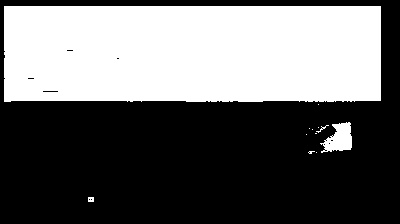
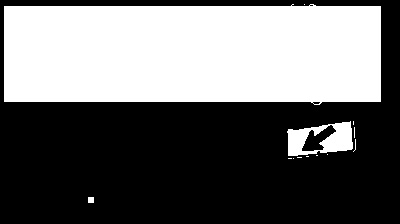
updated RGB definiton of stop sign and crosswalk sign

diff --git a/stopSign.py b/stopSign.py
@@ -110,14 +110,14 @@ for fn in os.listdir('CVInput'):
 			    if area > 700:
 			    	#make sure the contour is square enough
 			    	x,y,w,h = cv2.boundingRect(contours[i])
-			    	print float(w) / float(h)
-			    	print float(h) / float(w)
+			    	# print float(w) / float(h)
+			    	# print float(h) / float(w)
 			    	if float(w) / float(h) > 0.8 and float(w) / float(h) < 1.2 and float(h) / float(w) > 0.8 and float(h) / float(w) < 1.2:
 				    	if area > largestArea:
 					        largestArea = area
 					        bestContour = i
 
-			print "largestArea in pic "+fn+" is " + str(largestArea)
+			#print "largestArea in pic "+fn+" is " + str(largestArea)
 			if bestContour >= 0:
 				cv2.drawContours(resizedInputPhoto, contours, bestContour, (0,255,0), 3)
 				print "found stopsign in image: " + fn

diff --git a/masterRun.py b/masterRun.py
@@ -110,7 +110,7 @@ def detectStopSign(resizedInputPhoto):
 				blue = 1
 			if green == 0.0:
 				green = 1
-			if red > 50 and green < 70 and blue < 70:
+			if red > 80 and green < 90 and blue < 100:
 				croppedInputPhoto[i, j] = [255, 255, 255]
 			else: #else, make it black
 				croppedInputPhoto[i, j] = [0, 0, 0]
@@ -173,7 +173,7 @@ def detectCrosswalkSign(resizedInputPhoto):
 				green = 1
 			if red == 0.0:
 				red = 1			
-			if red > 180 and green < 230 and green > 140 and blue < 50:
+			if red < 210 and red > 100 and green < 210 and green > 90 and blue < 100:
 				croppedInputPhoto[i, j] = [255, 255, 255]
 				#print "making this pixel white"
 			else: #else, make it black

diff --git a/crosswalkSign.py b/crosswalkSign.py
@@ -68,7 +68,7 @@ for fn in os.listdir('CrossWalkSignInput'):
 
 				#if pixel is yellow enough, make it white
 				
-				if red > 230 and green < 100 and blue < 100:
+				if red > 230 and green > 180 and blue < 100:
 					croppedInputPhoto[i, j] = [255, 255, 255]
 				else: #else, make it black
 					croppedInputPhoto[i, j] = [0, 0, 0]
